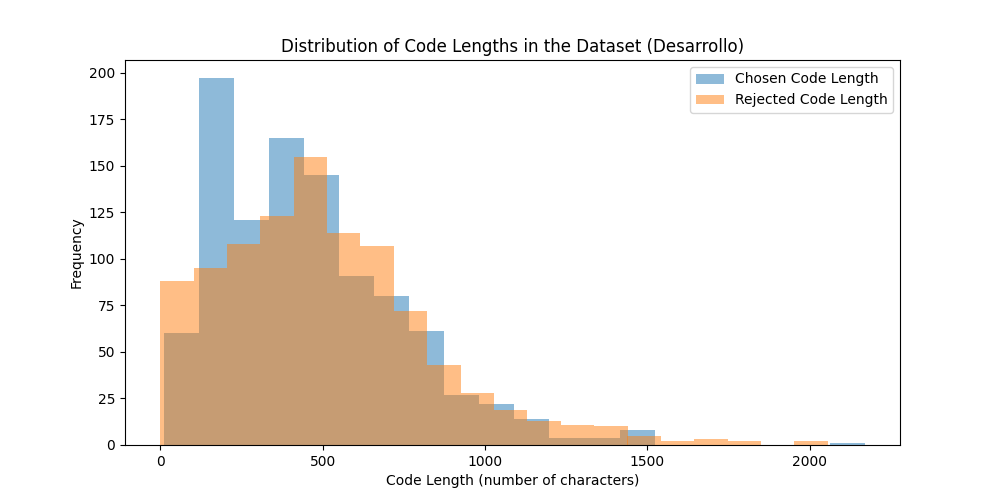
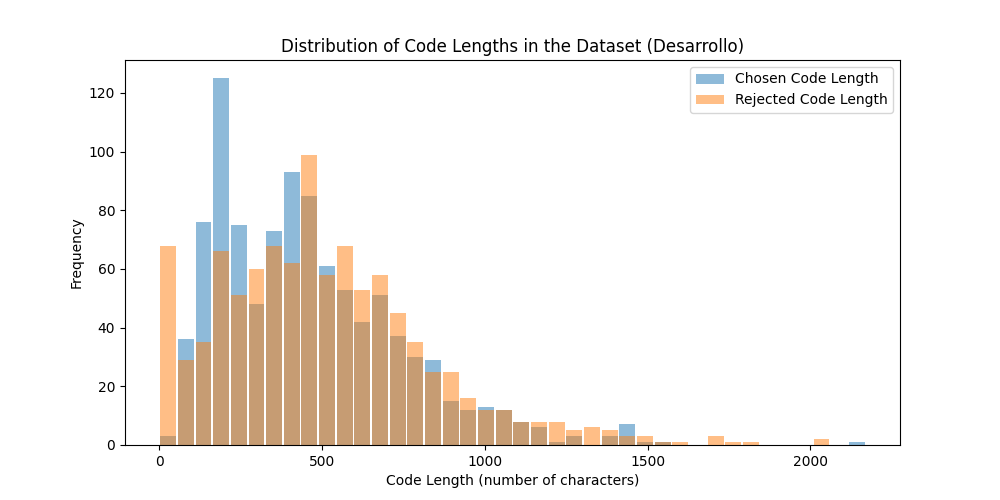
Visualize dataset

diff --git a/scripts/dpotrain.py b/scripts/dpotrain.py
@@ -1,0 +1,84 @@
+import torch
+import argparse
+from transformers import AutoModelForCausalLM, AutoTokenizer
+import datasets
+from trl import DPOTrainer, TrainingArguments
+import os,sys
+
+os.chdir("/sorgin1/users/jbarrutia006/viper")
+
+
+def parse_args():
+    parser = argparse.ArgumentParser(description="Train a model using DPO on a preference dataset")
+    parser.add_argument("--model_name", type=str, default="meta-llama/Meta-Llama-3-8B", help="Pretrained model name or path")
+    parser.add_argument("--dataset_path", type=str, required=True, help="Path to the preference dataset")
+    parser.add_argument("--output_dir", type=str, default="./dpo_llama3", help="Directory to save the trained model")
+    parser.add_argument("--batch_size", type=int, default=4, help="Batch size for training")
+    parser.add_argument("--gradient_accumulation", type=int, default=16, help="Gradient accumulation steps")
+    parser.add_argument("--learning_rate", type=float, default=1e-5, help="Learning rate for training")
+    parser.add_argument("--epochs", type=int, default=3, help="Number of training epochs")
+    parser.add_argument("--logging_steps", type=int, default=10, help="Logging frequency")
+    parser.add_argument("--eval_steps", type=int, default=200, help="Evaluation frequency")
+    parser.add_argument("--save_steps", type=int, default=500, help="Model saving frequency")
+    parser.add_argument("--lr_scheduler_type", type=str, default="cosine", help="Type of learning rate scheduler")
+    parser.add_argument("--warmup_ratio", type=float, default=0.1, help="Warmup ratio for learning rate scheduling")
+    parser.add_argument("--device", type=str, default="cuda" if torch.cuda.is_available() else "cpu", help="Device to use for training")
+    
+    return parser.parse_args()
+
+def train_dpo(args):
+    # Load the model and tokenizer
+    print("Loading model and tokenizer...")
+    model = AutoModelForCausalLM.from_pretrained(args.model_name, torch_dtype=torch.float16, device_map="auto")
+    tokenizer = AutoTokenizer.from_pretrained(args.model_name)
+
+    # Load dataset
+    print(f"Loading dataset from {args.dataset_path}...")
+    dataset = datasets.load_from_disk("/sorgin1/users/jbarrutia006/viper/results/gqa/dpo_dataset/train/dpo_dataset_single.arrow")
+
+    # Define training arguments
+    training_args = TrainingArguments(
+        output_dir=args.output_dir,
+        per_device_train_batch_size=args.batch_size,
+        per_device_eval_batch_size=args.batch_size,
+        gradient_accumulation_steps=args.gradient_accumulation,
+        learning_rate=args.learning_rate,
+        num_train_epochs=args.epochs,
+        logging_steps=args.logging_steps,
+        evaluation_strategy="steps",
+        eval_steps=args.eval_steps,
+        save_strategy="steps",
+        save_steps=args.save_steps,
+        save_total_limit=2,
+        lr_scheduler_type=args.lr_scheduler_type,
+        warmup_ratio=args.warmup_ratio,
+        report_to="none",
+        fp16=True,
+        push_to_hub=False
+    )
+
+    # Initialize DPOTrainer
+    print("Initializing DPOTrainer...")
+    trainer = DPOTrainer(
+        model=model,
+        args=training_args,
+        train_dataset=dataset["train"],
+        eval_dataset=dataset.get("validation", None),
+        tokenizer=tokenizer,
+        beta=0.1  # Controls preference strength (adjustable)
+    )
+
+    # Train the model
+    print("Starting training...")
+    trainer.train()
+
+    # Save the trained model
+    print(f"Saving model to {args.output_dir}...")
+    model.save_pretrained(args.output_dir)
+    tokenizer.save_pretrained(args.output_dir)
+
+    print("Training completed and model saved!")
+
+if __name__ == "__main__":
+    args = parse_args()
+    train_dpo(args)

diff --git a/scripts/create_DPO_dataset.py b/scripts/create_DPO_dataset.py
@@ -3,6 +3,7 @@ import pandas as pd
 from datasets import Dataset
 import matplotlib.pyplot as plt
 import re
+import numpy as np
 
 def get_csv_files(directory):
     """Return a list of CSV filenames in the given directory."""
@@ -118,16 +119,25 @@ def create_pairs_for_ids(df, sample_ids, approach='single'):
 def visualize_dataset(dataset, title_suffix=""):
     """
     Visualizes the dataset by printing a sample and plotting the distribution
-    of the code lengths (number of characters) for the 'chosen' and 'rejected' fields.
+    of the code lengths (number of characters) for the 'chosen' and 'rejected' fields,
+    using uniform bins with increased granularity.
     """
     df = pd.DataFrame(dataset)
     print(f"\nSample of the dataset {title_suffix}:")
     print(df.head())
+    
+    # Compute lengths of code strings
     df['chosen_length'] = df['chosen'].apply(lambda x: len(str(x)))
     df['rejected_length'] = df['rejected'].apply(lambda x: len(str(x)))
+    
+    # Determine common uniform bins with higher granularity (e.g., 40 bins)
+    min_val = min(df['chosen_length'].min(), df['rejected_length'].min())
+    max_val = max(df['chosen_length'].max(), df['rejected_length'].max())
+    bins = np.linspace(min_val, max_val, 41)  # 40 bins
+    
     plt.figure(figsize=(10, 5))
-    plt.hist(df['chosen_length'], bins=20, alpha=0.5, label='Chosen Code Length')
-    plt.hist(df['rejected_length'], bins=20, alpha=0.5, label='Rejected Code Length')
+    plt.hist(df['chosen_length'], bins=bins, alpha=0.5, label='Chosen Code Length', rwidth=0.9)
+    plt.hist(df['rejected_length'], bins=bins, alpha=0.5, label='Rejected Code Length', rwidth=0.9)
     plt.xlabel('Code Length (number of characters)')
     plt.ylabel('Frequency')
     plt.title(f'Distribution of Code Lengths in the Dataset {title_suffix}')

diff --git a/scripts/visualize_dataset.py b/scripts/visualize_dataset.py
@@ -1,0 +1,6 @@
+from renumics import spotlight
+import datasets
+
+ds = datasets.load_from_disk("/sorgin1/users/jbarrutia006/viper/results/gqa/dpo_dataset/dpo_dataset_single_train.arrow")
+
+spotlight.show(ds)
